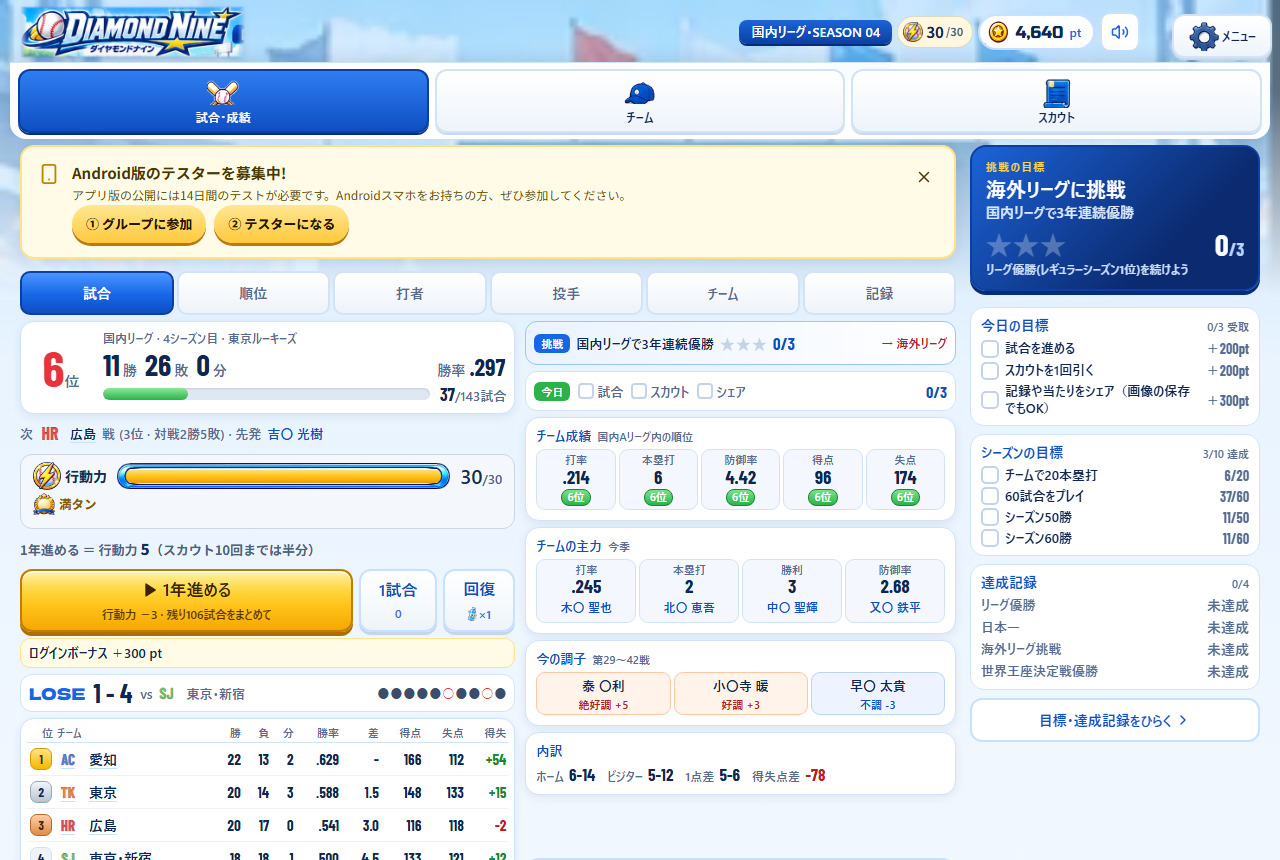
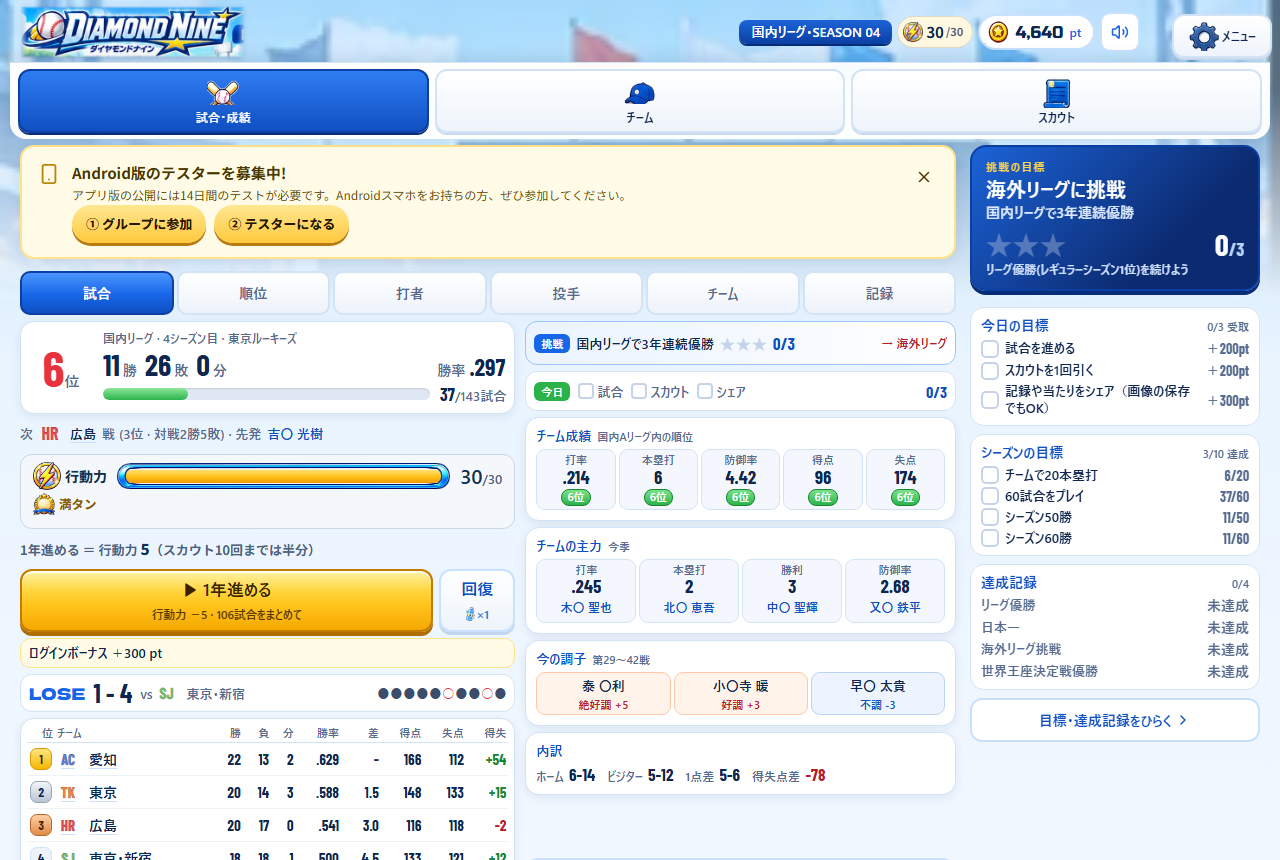
Play only by the year: drop per-game buttons and proportional stamina

Changed region(s): [[0.0625, 0.6651, 0.4062, 0.7558]]

diff --git a/src/pro/StaminaPanel.tsx b/src/pro/StaminaPanel.tsx
@@ -4,12 +4,12 @@ import type {GameState} from './engine';
 import {monetizeBridge,useMonetize} from './monetization';
 import {
  DRINK_RESTORE,PASS_STAMINA_MAX,PASS_STAMINA_REGEN_MS,STAMINA_AD_POINTS,STAMINA_HARD_CAP,STAMINA_PT_COST,
- FREE_SEASONS,affordableGames,costForGames,formatWait,freeSeasonsLeft,gamesLeft,seasonCost,staminaStage,useStamina,type StaminaView,
+ FREE_SEASONS,costToFinish,formatWait,freeSeasonsLeft,gamesLeft,seasonCost,staminaStage,useStamina,type StaminaView,
 } from './stamina';
 import './stamina.css';
 
 const count=(n:number)=>n.toLocaleString('ja-JP');
-const season=(left:number)=>`残り${left}試合をまとめて`;
+const season=(left:number)=>`${left}試合をまとめて`;
 // 絵は ChatGPT イメージで作った物(2026-10-19、背景透過)。public/assets/pro/stamina/
 const ART='/assets/pro/stamina/';
 const Bolt=({size}:{size:number})=><img className="st-bolt" src={ART+'stamina-bolt.webp'} alt="" width={size} height={size} aria-hidden="true"/>;
@@ -23,7 +23,7 @@ export function StaminaChip({onOpen}:{onOpen:()=>void}){
 }
 
 export interface StaminaActions {
- onPlay:(games:number)=>void;
+ onPlay:()=>void;
  // pt で回復。成功したら true。
  onBuy:()=>boolean;
  onDrink:()=>boolean;
@@ -37,8 +37,7 @@ export interface StaminaActions {
 export function StaminaPlay({state,busy,pawa,actions,view}:{state:GameState;busy:boolean;pawa:boolean;actions:StaminaActions;view?:StaminaView}){
  const live=useStamina(),v=view??live,m=useMonetize();
  const [open,setOpen]=useState(false),[confirm,setConfirm]=useState(false),[note,setNote]=useState('');
- const left=gamesLeft(state),stage=staminaStage(state),yearCost=seasonCost(state),restCost=costForGames(state,left);
- const can=affordableGames(state,v.points),partCost=costForGames(state,can),oneCost=costForGames(state,1);
+ const left=gamesLeft(state),stage=staminaStage(state),yearCost=seasonCost(state),restCost=costToFinish(state);
  const enough=v.points>=restCost;
  // 1年ぶんがたまるまでの時間
  const needMs=enough?0:v.nextInMs+Math.max(0,restCost-v.points-1)*v.regenMs;
@@ -76,16 +75,14 @@ export function StaminaPlay({state,busy,pawa,actions,view}:{state:GameState;busy
   </div>
   {stage==='free'?<p className="st-free">{FREE_SEASONS}シーズン目までは行動力を使いません（あと{freeSeasonsLeft(state)}シーズン）</p>
   :<p className="st-rule">1年進める ＝ 行動力 <b>{yearCost}</b>{stage==='warmup'?'（スカウト10回までは半分）':stage==='late'?'（上のリーグ）':''}</p>}
-  {busy?null:<>{empty&&<div className="st-empty" role="status"><img src={ART+'stamina-tired.webp'} alt="" aria-hidden="true" width={300} height={251}/><p><b>行動力が足りません。</b>あと {formatWait(needMs)} で残りの1年ぶん（{restCost}）がたまります。下の3つから選べます。</p></div>}
+  {busy?null:<>{empty&&<div className="st-empty" role="status"><img src={ART+'stamina-tired.webp'} alt="" aria-hidden="true" width={300} height={251}/><p><b>行動力が足りません。</b>あと {formatWait(needMs)} で1年ぶん（{restCost}）がたまります。下の3つから選べます。</p></div>}
   <div className="st-buttons">
-   <button type="button" className={primary+' st-go'} disabled={busy||!enough} onClick={()=>actions.onPlay(left)}>
+   <button type="button" className={primary+' st-go'} disabled={busy||!enough} onClick={()=>actions.onPlay()}>
     <span><Play size={16} fill="currentColor" aria-hidden="true"/>1年進める</span>
     <small>{restCost?`行動力 −${restCost}`:'行動力を使わない'} · {season(left)}</small>
    </button>
-   <button type="button" className={secondary+' st-one'} disabled={busy||oneCost>v.points} onClick={()=>actions.onPlay(1)}><span>1試合</span><small>{oneCost?`−${oneCost}`:'0'}</small></button>
    <button type="button" className={secondary+' st-open'} aria-expanded={open} onClick={()=>setOpen(o=>!o)}><span>回復</span><small>{v.drinks?<><img className="st-mini-drink" src={ART+'stamina-drink.webp'} alt="" aria-hidden="true"/>×{v.drinks}</>:'ほか'}</small></button>
-  </div>
-  {empty&&can>0&&<button type="button" className={secondary+' st-part'} onClick={()=>actions.onPlay(can)}>今の行動力で進められる所まで（{can}試合・−{partCost}）</button>}</>}
+  </div></>}
   {showRecover&&!busy&&<div className="st-recover" aria-label="行動力の回復">
    <div className="st-opt">
     <span className="st-opt-icon"><Clock size={18}/></span>

diff --git a/scripts/test-stamina.ts b/scripts/test-stamina.ts
@@ -6,7 +6,7 @@ import {seasonGames} from '../src/pro/leagues';
 import {dailyLeft,localDay,parseDaily,spendDaily,type MonetizeBridge,type MonetizeSnapshot} from '../src/pro/monetization';
 import {
  DRINK_RESTORE,FREE_SEASONS,PASS_STAMINA_MAX,PASS_STAMINA_REGEN_MS,SEASON_COST,STAMINA_AD_DAILY_LIMIT,STAMINA_AD_POINTS,STAMINA_HARD_CAP,
- STAMINA_MAX,STAMINA_PT_COST,STAMINA_REGEN_MS,WARMUP_PULLS,addStamina,affordableGames,canBuyWithPoints,claimDrinkGift,costForGames,currentRules,
+ STAMINA_MAX,STAMINA_PT_COST,STAMINA_REGEN_MS,WARMUP_PULLS,addStamina,canBuyWithPoints,claimDrinkGift,costToFinish,currentRules,
  freshStamina,fullAt,gamesLeft,loadStamina,parseStamina,seasonCost,setStaminaPass,settle,spendStamina,staminaRules,staminaStage,staminaView,useDrink,
 } from '../src/pro/stamina';
 import {StaminaPlay} from '../src/pro/StaminaPanel';
@@ -118,17 +118,12 @@ export function registerStaminaTests(test:(name:string,run:()=>void)=>void){
   assert.equal(staminaStage(at(4,10)),'mid');assert.equal(seasonCost(at(4,10)),10);
   assert.equal(staminaStage(at(9,3,'MLB')),'late');assert.equal(seasonCost(at(9,3,'MLB')),12);
   assert.equal(seasonCost(at(20,80,'SPACE')),15);
-  // 1年まとめても、1試合ずつでも、合計は同じ
+  // 試合を進めるのは「1年進める」だけ。途中まで進んだ年でも1年ぶん、終わった年は0。
   const mid=at(5,30),G=seasonGames(mid.season);
-  assert.equal(costForGames(mid,G),10);assert.equal(costForGames(mid,9999),10);
-  let total=0,s=mid;for(let d=0;d<G;d++){total+=costForGames(s,1);s={...s,season:{...s.season,day:s.season.day+1}};}
-  assert.equal(total,10);
-  assert.equal(costForGames(at(1,0),G),0);
-  assert.equal(affordableGames(mid,10),G);assert.equal(affordableGames(mid,0),0);
-  assert.ok(affordableGames(mid,5)>=70&&affordableGames(mid,5)<G);
-  const late=at(9,3,'MLB');assert.equal(costForGames(late,gamesLeft(late)),12);
-  // 途中まで進んだ年は残りの分だけ
-  const half={...mid,season:{...mid.season,day:72}};assert.equal(costForGames(half,gamesLeft(half)),10-Math.ceil(72*10/G));
+  assert.equal(costToFinish(mid),10);assert.equal(costToFinish(at(1,0)),0);
+  const half={...mid,season:{...mid.season,day:72}};assert.equal(costToFinish(half),10);
+  const done={...mid,season:{...mid.season,day:G,completed:true}};assert.equal(costToFinish(done),0);assert.equal(gamesLeft(done),0);
+  const late=at(9,3,'MLB');assert.equal(costToFinish(late),12);
  });
 
  test('stamina: the play panel keeps the one-tap year and shows the three ways to recover',()=>{
@@ -143,11 +138,13 @@ export function registerStaminaTests(test:(name:string,run:()=>void)=>void){
   const snap={privacyOptions:false,reward:{available:true,busy:false,left:3,limit:3,points:3000},staminaReward:{left:0,limit:3,points:10},premium:{status:'ready',owned:false,verified:true,price:null,busy:false,message:''}} as MonetizeSnapshot;
   const lowView=staminaView({...freshStamina(T0),points:4,at:T0,seen:T0},T0+1*MIN,free);
   const out=withBridge(snap,()=>renderToStaticMarkup(createElement(StaminaPlay,{state:s,busy:false,pawa:true,actions,view:lowView})));
-  assert.match(out,/行動力が足りません/);assert.match(out,/あと 17分00秒 で残りの1年ぶん（10）がたまります/);
+  assert.match(out,/行動力が足りません/);assert.match(out,/あと 17分00秒 で1年ぶん（10）がたまります/);
   assert.match(out,/待つ（無料）/);assert.match(out,/広告を見る/);assert.match(out,/ポイントで回復/);
   assert.match(out,/今日あと 0 \/ 3 回/);assert.match(out,/今日は終了/);
   assert.match(out,/3,000 pt で ＋30/);assert.match(out,/プレミアムパスで上限 40/);
-  assert.match(out,/今の行動力で進められる所まで/);
+  // 細かく進めるボタンは無い(1年進めるだけ)
+  for(const h of [html,out])assert.doesNotMatch(h,/1試合<|進められる所まで|st-one|st-part/);
+  assert.match(out,/disabled=""[^>]*>[^]*?1年進める/);
   const web=renderToStaticMarkup(createElement(StaminaPlay,{state:s,busy:false,pawa:false,actions,view:lowView}));
   assert.match(web,/アプリ版で使えます/);assert.doesNotMatch(web,/プレミアムパスで上限/);
  });

diff --git a/src/pro/stamina.ts b/src/pro/stamina.ts
@@ -4,7 +4,7 @@ import {circuitOf,seasonGames} from './leagues';
 
 // 行動力(2026-10-19 持ち主「1年進めるのにソシャゲみたいに時間制限」→「1年丸々で進める。さくさく」
 // →「選手がそろうまでは自由に、そこから徐々に」)。
-// 「1年進める」1回に行動力を使う。量は段階で変わる(seasonCost)。1試合ずつ進める時は1年ぶんを試合数で割り振る。
+// 「1年進める」1回に行動力を使う。量は段階で変わる(seasonCost)。
 // 待てば必ず回復するので、お金を払わなくても必ず先へ進める。
 // クラブのセーブとは別に端末へ置く(リセット・読み込み・クラブの切り替えで満タンに戻らない)。
 // 数値の理由は STAMINA_UPDATE.md。
@@ -120,19 +120,10 @@ export function seasonCost(state:GameState):number{
 }
 export const freeSeasonsLeft=(state:GameState)=>Math.max(0,FREE_SEASONS-state.season.number+1);
 export const gamesLeft=(state:GameState)=>state.season.completed?0:Math.max(0,seasonGames(state.season)-state.season.day);
-// 1年ぶんを試合の進み具合で割り振る(切り上げ)。どこで区切っても1年の合計はちょうど seasonCost。
-export function costForGames(state:GameState,games:number){
- const C=seasonCost(state),G=seasonGames(state.season),from=state.season.day,to=Math.min(G,from+Math.max(0,Math.floor(games)));
- if(!C||to<=from)return 0;
- return Math.ceil(to*C/G)-Math.ceil(from*C/G);
-}
-// 今の行動力で進められる試合数。
-export function affordableGames(state:GameState,points:number){
- const left=gamesLeft(state);
- if(costForGames(state,left)<=points)return left;
- let n=0;while(n<left&&costForGames(state,n+1)<=points)n++;
- return n;
-}
+// 試合を進める操作は「1年進める」だけ(2026-10-19 持ち主「1試合とか細かく進めるのいらない」)。
+// 途中まで進んだ年でも、残りを終える時は1年ぶんを使う。
+export const costToFinish=(state:GameState)=>gamesLeft(state)>0?seasonCost(state):0;
+
 // 段階が始まって初めて行動力を使う時の案内(1回だけ)。
 const INTRO_KEY='diamond-nine-stamina-intro';
 export const staminaIntroDue=(state:GameState)=>{if(seasonCost(state)<=0)return false;try{return localStorage.getItem(INTRO_KEY)!=='1';}catch{return false;}};

diff --git a/src/pro/SimpleApp.tsx b/src/pro/SimpleApp.tsx
@@ -3,7 +3,7 @@ import {PointShop} from './PointShop';
 import {PremiumPassCard,RewardAdButton} from './MonetizePanel';
 import {PawaGoalsAside} from './pawa/PawaGoals';
 import {StaminaChip,StaminaPlay} from './StaminaPanel';
-import {DRINK_RESTORE,STAMINA_PT_COST,addStamina,canBuyWithPoints,claimDrinkGift,costForGames,loadStamina,markStaminaIntro,staminaIntroDue,seasonCost,STAMINA_MAX,STAMINA_REGEN_MS,STAMINA_AD_POINTS,spendStamina,updateStamina,useDrink,useStaminaSummary,currentRules} from './stamina';
+import {DRINK_RESTORE,STAMINA_PT_COST,addStamina,canBuyWithPoints,claimDrinkGift,costToFinish,loadStamina,markStaminaIntro,staminaIntroDue,seasonCost,STAMINA_MAX,STAMINA_REGEN_MS,STAMINA_AD_POINTS,spendStamina,updateStamina,useDrink,useStaminaSummary,currentRules} from './stamina';
 import {interstitialGraceOver,monetizeBridge,useMonetize} from './monetization';
 import {spaceUnlocked,circuitLabel,circuitOf,seasonGames,leagueFor,leagueProgress,titleFor,NPB_TITLES_TO_MLB,type Circuit} from './leagues';
 import {switchLeague} from './engine';
@@ -341,7 +341,7 @@ export default function SimpleApp({profile='career',onProfileChange}:{profile?:P
   if(lock.current||state.season.completed)return;
   if(soundRef.current)void prepareGameAudio();
   // 行動力: 進める試合ぶんを先に使う(足りなければ進めない)。計算に失敗したら返す。
-  const staminaCost=costForGames(state,days);
+  const staminaCost=days>0?costToFinish(state):0;
   if(staminaCost>0&&!updateStamina((r,now,rules)=>spendStamina(r,staminaCost,now,rules)))return;
   lock.current=true;setBusy(true);setProgress(0);let current=state;const from=state.season.day,target=Math.min(seasonGames(state.season),from+days);
   const step=()=>{try{
@@ -376,7 +376,7 @@ export default function SimpleApp({profile='career',onProfileChange}:{profile?:P
  const stamina=useStaminaSummary();
  const staminaAdLock=useRef(false);
  const staminaActions={
-  onPlay:(games:number)=>play(games),
+  onPlay:()=>play(seasonGames(state.season)),
   onBuy:()=>{
    if(lock.current||state.gems<STAMINA_PT_COST)return false;
    const r=loadStamina(),now=Date.now();if(!canBuyWithPoints(r,state.gems,now,currentRules()))return false;

diff --git a/src/pro/stamina.css b/src/pro/stamina.css
@@ -22,16 +22,15 @@
 .st-time b{color:var(--st-ink)}
 .st-rule{margin:0;font-size:13px;font-weight:700;color:var(--st-sub)}
 .st-rule b{color:var(--st-ink);font-size:15px}
-.st-part{min-height:44px;font-size:14px;font-weight:800}
 .st-intro-art{display:block;margin:0 auto 6px}
 .st-intro-list{margin:6px 0 12px;padding-left:1.2em;text-align:left;font-size:14px;line-height:1.6}
 .st-free{margin:0;padding:6px 10px;border-radius:8px;background:#e7f6ea;color:#1d5b2c;font-size:13px;font-weight:700}
-.st-buttons{display:grid;grid-template-columns:1fr auto auto;gap:6px}
+.st-buttons{display:grid;grid-template-columns:1fr auto;gap:6px}
 .st-buttons button{min-height:54px;display:flex;flex-direction:column;align-items:center;justify-content:center;gap:2px;padding:4px 12px;line-height:1.2}
 .st-buttons button>span{display:flex;align-items:center;gap:5px;font-weight:800}
 .st-buttons button small{font-size:11.5px;font-weight:700;opacity:.85}
 .st-go>span{font-size:17px}
-.st-one,.st-open{min-width:64px}
+.st-open{min-width:76px}
 .st-empty{margin:0;padding:8px 12px 8px 8px;border-radius:12px;border:1px solid #f0c3b5;background:linear-gradient(180deg,#fff7f3,#ffece4);color:var(--st-warn);font-size:14px;line-height:1.5;display:flex;align-items:center;gap:10px}
 .st-empty img{width:120px;height:auto;flex:none}
 .st-empty p{margin:0}
@@ -56,8 +55,6 @@
 .st-chip small{font-size:11px;font-weight:700;opacity:.75}
 .st-chip.is-empty{background:#fff0eb;color:#b33a1c}
 @media (max-width:420px){
- .st-buttons{grid-template-columns:1fr 1fr}
- .st-go{grid-column:1/-1}
  .st-opt{grid-template-columns:28px 1fr auto;gap:6px}
  .st-opt-icon{width:28px;height:28px}
  .st-empty img{width:88px}

diff --git a/STAMINA_UPDATE.md b/STAMINA_UPDATE.md
@@ -5,13 +5,15 @@
 1. 「1年進めるのにソシャゲみたいに時間制限とか付けて良い感じに。課金圧が良い感じになるように」
 2. 「1年丸々で進めるようにして。これじゃ全然進まない。もうちょいさくさく」
 3. 「ちゃんと遊べて、そこから徐々に課金圧が必要になってくる感じで。選手がある程度そろうまでは結構自由に」
+4. 「1試合進めるとか細かく進めるのいらない」
 
 最初に入れた「1試合に行動力1・12分で1回復」（1年に2〜3日かかる）は2で取りやめ、「1年進める」1回に行動力を使う形にした。作業前の状態は git tag `d9-before-stamina-2026-10-19`。
 
 ## しくみ
 
 - 「1年進める」は前と同じく、1回でそのシーズンの残りと短期決戦まで終わる。このボタンに行動力を使う。
-- 1試合ずつ進めることもできる。その時は1年ぶんを試合数で割り振る（進んだ所までの切り上げ）。1試合ずつでも、途中から「1年進める」でも、1年の合計はちょうど同じ。国内なら約14試合で1。
+- 試合を進める操作は「1年進める」だけ（4で1試合ずつ・数試合ずつのボタンを外した）。試合結果・順位・成績の画面はそのまま。
+- 途中まで進んでいる古いセーブは「1年進める」で残りを終える。その時も1年ぶんを使う（行動力は満タンから始まるので、初回は必ず進める）。
 - 短期決戦・次のシーズンへ・リーグの切り替えには使わない。
 - 行動力は時間で戻る。待てば必ず先へ進める（どの段階でも1年ぶんは上限以下）。
 
@@ -59,7 +61,7 @@
 
 - 序盤の間は「3シーズン目までは行動力を使いません（あとNシーズン）」を出す。
 - 行動力を初めて使う段階に入った時に1回だけ「行動力のしくみ」を出す（待てば戻る・3つの回復・ドリンク）。閉じたら二度と出ない（localStorage `diamond-nine-stamina-intro`）。
-- 足りない時は、残りの1年ぶんがたまるまでの時間と「待つ（無料）」「広告を見る」「ポイントで回復」、持っていれば回復ドリンクを並べる。「今の行動力で進められる所まで」のボタンもある。ポイントの回復は「使う／やめる」で確かめる。
+- 足りない時は、1年ぶんがたまるまでの時間と「待つ（無料）」「広告を見る」「ポイントで回復」、持っていれば回復ドリンクを並べる。ポイントの回復は「使う／やめる」で確かめる。
 - 満タンになる時刻に通知を1件（アプリ版、通知を許可した人だけ。端末の中で完結）。
 
 ## 守っていること
@@ -83,7 +85,7 @@
 
 ## 変えたファイル
 
-- src/pro/stamina.ts（新規）: 数値、段階、割り振り、回復・消費・時計戻し・配布・保存、案内の1回だけ
+- src/pro/stamina.ts（新規）: 数値、段階、1年ぶんの消費、回復・消費・時計戻し・配布・保存、案内の1回だけ
 - src/pro/StaminaPanel.tsx・src/pro/stamina.css（新規）: 行動力の表示、1年進める、回復の3択、画面上部の札、絵
 - public/assets/pro/stamina/（新規）: ChatGPT の絵
 - src/pro/SimpleApp.tsx: 進める前に行動力を使う（失敗したら返す）、ドリンクの配布、満タン通知、行動力のしくみの案内
@@ -97,7 +99,7 @@
 
 ## テスト
 
-`npm test` に行動力の9項目（数値、満タンで始まる移行、消費と回復、時計戻し、pt・ドリンク・配布・上限、広告の1日上限、パス、段階と割り振り、足りない時の画面）。
+`npm test` に行動力の9項目（数値、満タンで始まる移行、消費と回復、時計戻し、pt・ドリンク・配布・上限、広告の1日上限、パス、段階と1年ぶんの消費、足りない時の画面）。
 
 既存のうち17項目は、作業前の tag の時点ですでに落ちていた（初期メンバーの人数・投手陣の並び・UZR・MLB の表示など、行動力と関係しない所）。落ちる項目は作業前と同じ17項目で、新しく落ちた項目は無い。
 
